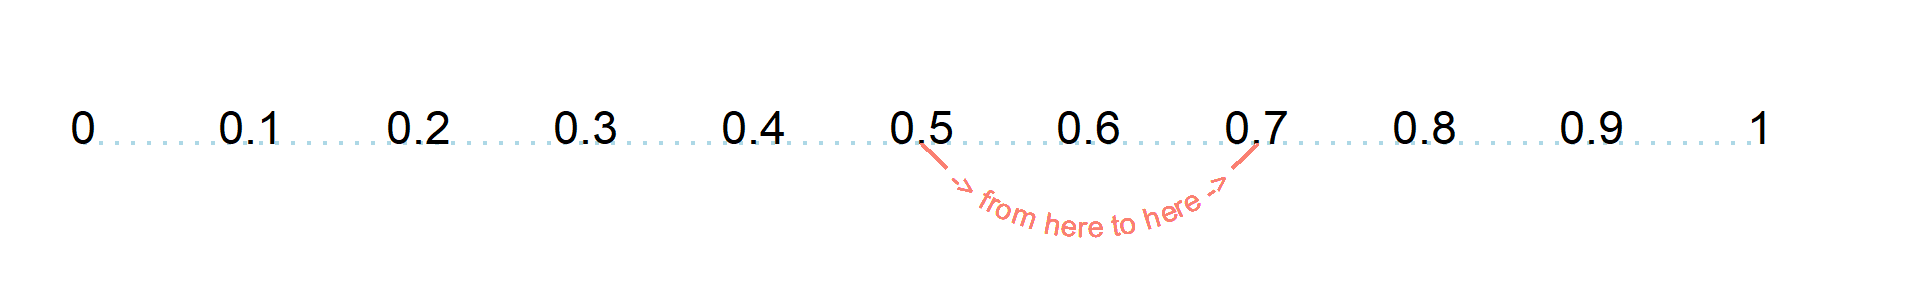
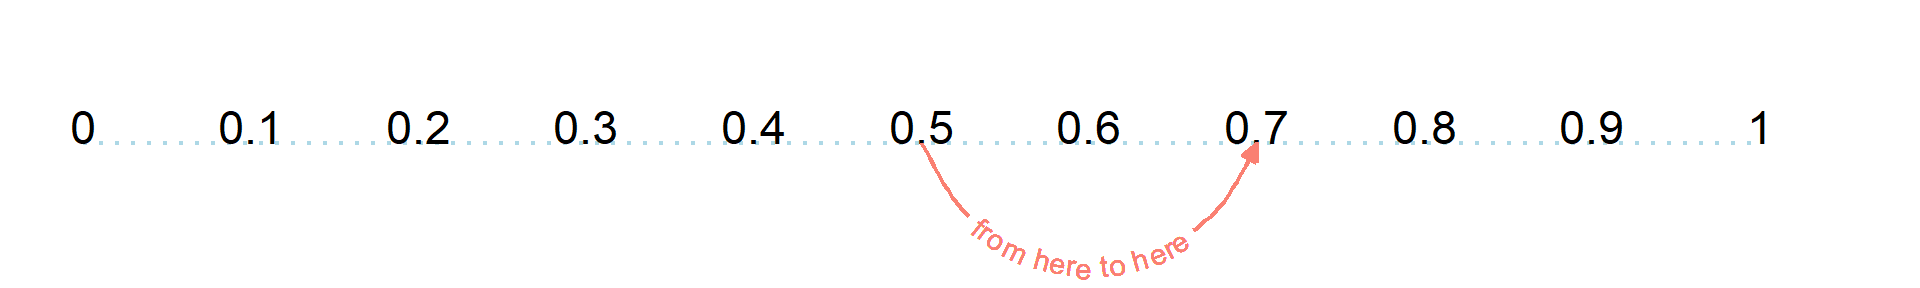
added arrow to number line annotation

diff --git a/geomtextpath/get_started_geomtextpath.html b/geomtextpath/get_started_geomtextpath.html
@@ -319,7 +319,7 @@ pre > code.sourceCode > span > a:first-child::before { text-decoration: underlin
 </div>
 </div>
 </div>
-<p>Yes, that cool curved annotation <strong>was</strong> made with the help of {geomtextpath} 👀<br>
+<p>Yes, that cool curved annotation <strong>was</strong> made with the help of <code>geomtextpath::geom_textcurve()</code> 👀<br>
 <span class="math inline">\(~\)</span></p>
 <p>Since a Break Even Analysis is used to show how many units we need to sell to cover our fixed costs and start earning a profit, it would be useful to add lines showing what our fixed costs are and how many units we need to sell to break even.</p>
 <p><span class="math inline">\(~\)</span></p>
@@ -401,14 +401,16 @@ pre > code.sourceCode > span > a:first-child::before { text-decoration: underlin
 <span id="cb12-4"><a href="#cb12-4" aria-hidden="true" tabindex="-1"></a>             <span class="at">color =</span> island, </span>
 <span id="cb12-5"><a href="#cb12-5" aria-hidden="true" tabindex="-1"></a>             <span class="at">label =</span> island)) <span class="sc">+</span></span>
 <span id="cb12-6"><a href="#cb12-6" aria-hidden="true" tabindex="-1"></a>  <span class="fu">geom_textdensity</span>(<span class="at">linewidth =</span> <span class="dv">1</span>, </span>
-<span id="cb12-7"><a href="#cb12-7" aria-hidden="true" tabindex="-1"></a>                   <span class="at">size =</span> <span class="dv">4</span>) <span class="sc">+</span></span>
-<span id="cb12-8"><a href="#cb12-8" aria-hidden="true" tabindex="-1"></a>  <span class="fu">labs</span>(<span class="at">title =</span> <span class="st">"Adelie Penguins from Different Islands"</span>,</span>
-<span id="cb12-9"><a href="#cb12-9" aria-hidden="true" tabindex="-1"></a>       <span class="at">subtitle =</span> <span class="st">"Do they have different bill lengths?"</span>,</span>
-<span id="cb12-10"><a href="#cb12-10" aria-hidden="true" tabindex="-1"></a>       <span class="at">x =</span> <span class="st">"Bill Length (mm)"</span>,</span>
-<span id="cb12-11"><a href="#cb12-11" aria-hidden="true" tabindex="-1"></a>       <span class="at">y =</span> <span class="st">"Density"</span>) <span class="sc">+</span></span>
-<span id="cb12-12"><a href="#cb12-12" aria-hidden="true" tabindex="-1"></a>  <span class="fu">theme_minimal</span>(<span class="at">base_size =</span> <span class="dv">16</span>) <span class="sc">+</span></span>
-<span id="cb12-13"><a href="#cb12-13" aria-hidden="true" tabindex="-1"></a>  <span class="fu">theme</span>(<span class="at">legend.position =</span> <span class="st">"none"</span>,</span>
-<span id="cb12-14"><a href="#cb12-14" aria-hidden="true" tabindex="-1"></a>        <span class="at">plot.subtitle =</span> <span class="fu">element_text</span>(<span class="at">size =</span> <span class="dv">14</span>))</span></code><button title="Copy to Clipboard" class="code-copy-button"><i class="bi"></i></button></pre></div>
+<span id="cb12-7"><a href="#cb12-7" aria-hidden="true" tabindex="-1"></a>                   <span class="at">size =</span> <span class="dv">4</span>, </span>
+<span id="cb12-8"><a href="#cb12-8" aria-hidden="true" tabindex="-1"></a>                   <span class="at">hjust =</span> .<span class="dv">49</span>,</span>
+<span id="cb12-9"><a href="#cb12-9" aria-hidden="true" tabindex="-1"></a>                   <span class="at">spacing =</span> <span class="dv">40</span>) <span class="sc">+</span></span>
+<span id="cb12-10"><a href="#cb12-10" aria-hidden="true" tabindex="-1"></a>  <span class="fu">labs</span>(<span class="at">title =</span> <span class="st">"Adelie Penguins from Different Islands"</span>,</span>
+<span id="cb12-11"><a href="#cb12-11" aria-hidden="true" tabindex="-1"></a>       <span class="at">subtitle =</span> <span class="st">"Do they have different bill lengths?"</span>,</span>
+<span id="cb12-12"><a href="#cb12-12" aria-hidden="true" tabindex="-1"></a>       <span class="at">x =</span> <span class="st">"Bill Length (mm)"</span>,</span>
+<span id="cb12-13"><a href="#cb12-13" aria-hidden="true" tabindex="-1"></a>       <span class="at">y =</span> <span class="st">"Density"</span>) <span class="sc">+</span></span>
+<span id="cb12-14"><a href="#cb12-14" aria-hidden="true" tabindex="-1"></a>  <span class="fu">theme_minimal</span>(<span class="at">base_size =</span> <span class="dv">16</span>) <span class="sc">+</span></span>
+<span id="cb12-15"><a href="#cb12-15" aria-hidden="true" tabindex="-1"></a>  <span class="fu">theme</span>(<span class="at">legend.position =</span> <span class="st">"none"</span>,</span>
+<span id="cb12-16"><a href="#cb12-16" aria-hidden="true" tabindex="-1"></a>        <span class="at">plot.subtitle =</span> <span class="fu">element_text</span>(<span class="at">size =</span> <span class="dv">14</span>))</span></code><button title="Copy to Clipboard" class="code-copy-button"><i class="bi"></i></button></pre></div>
 <div class="cell-output-display">
 <div class="quarto-figure quarto-figure-center">
 <figure class="figure">
